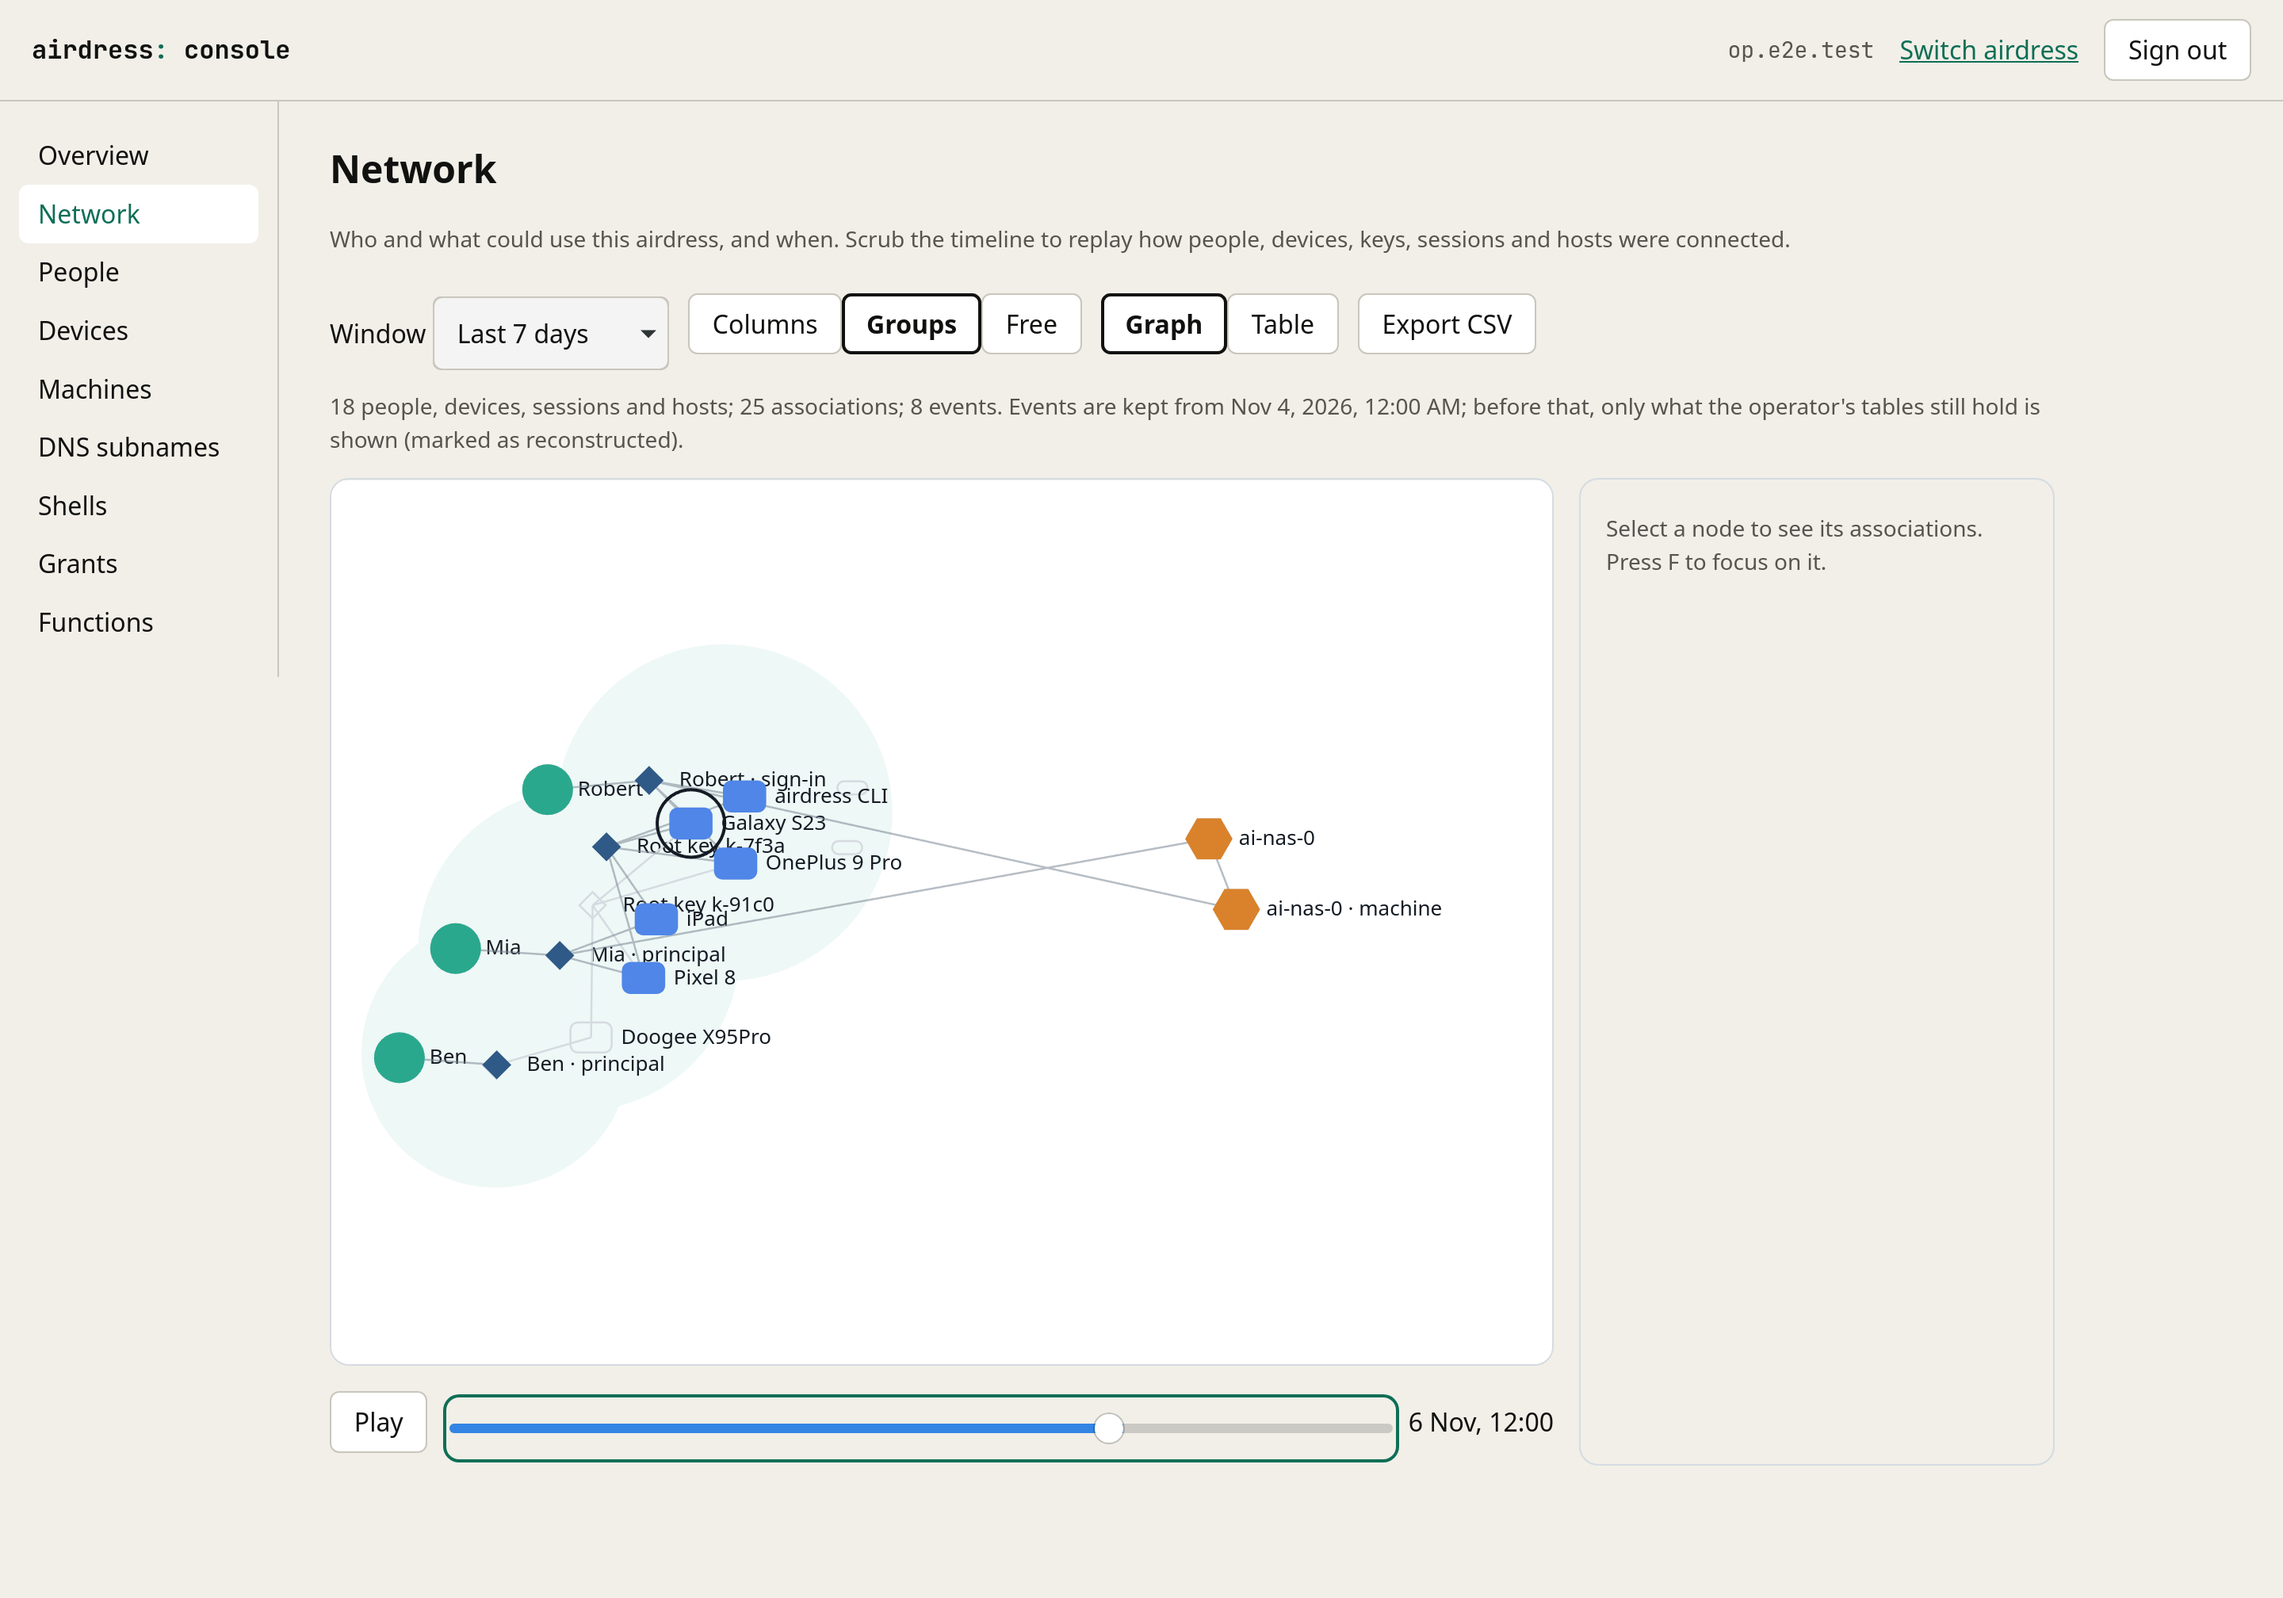
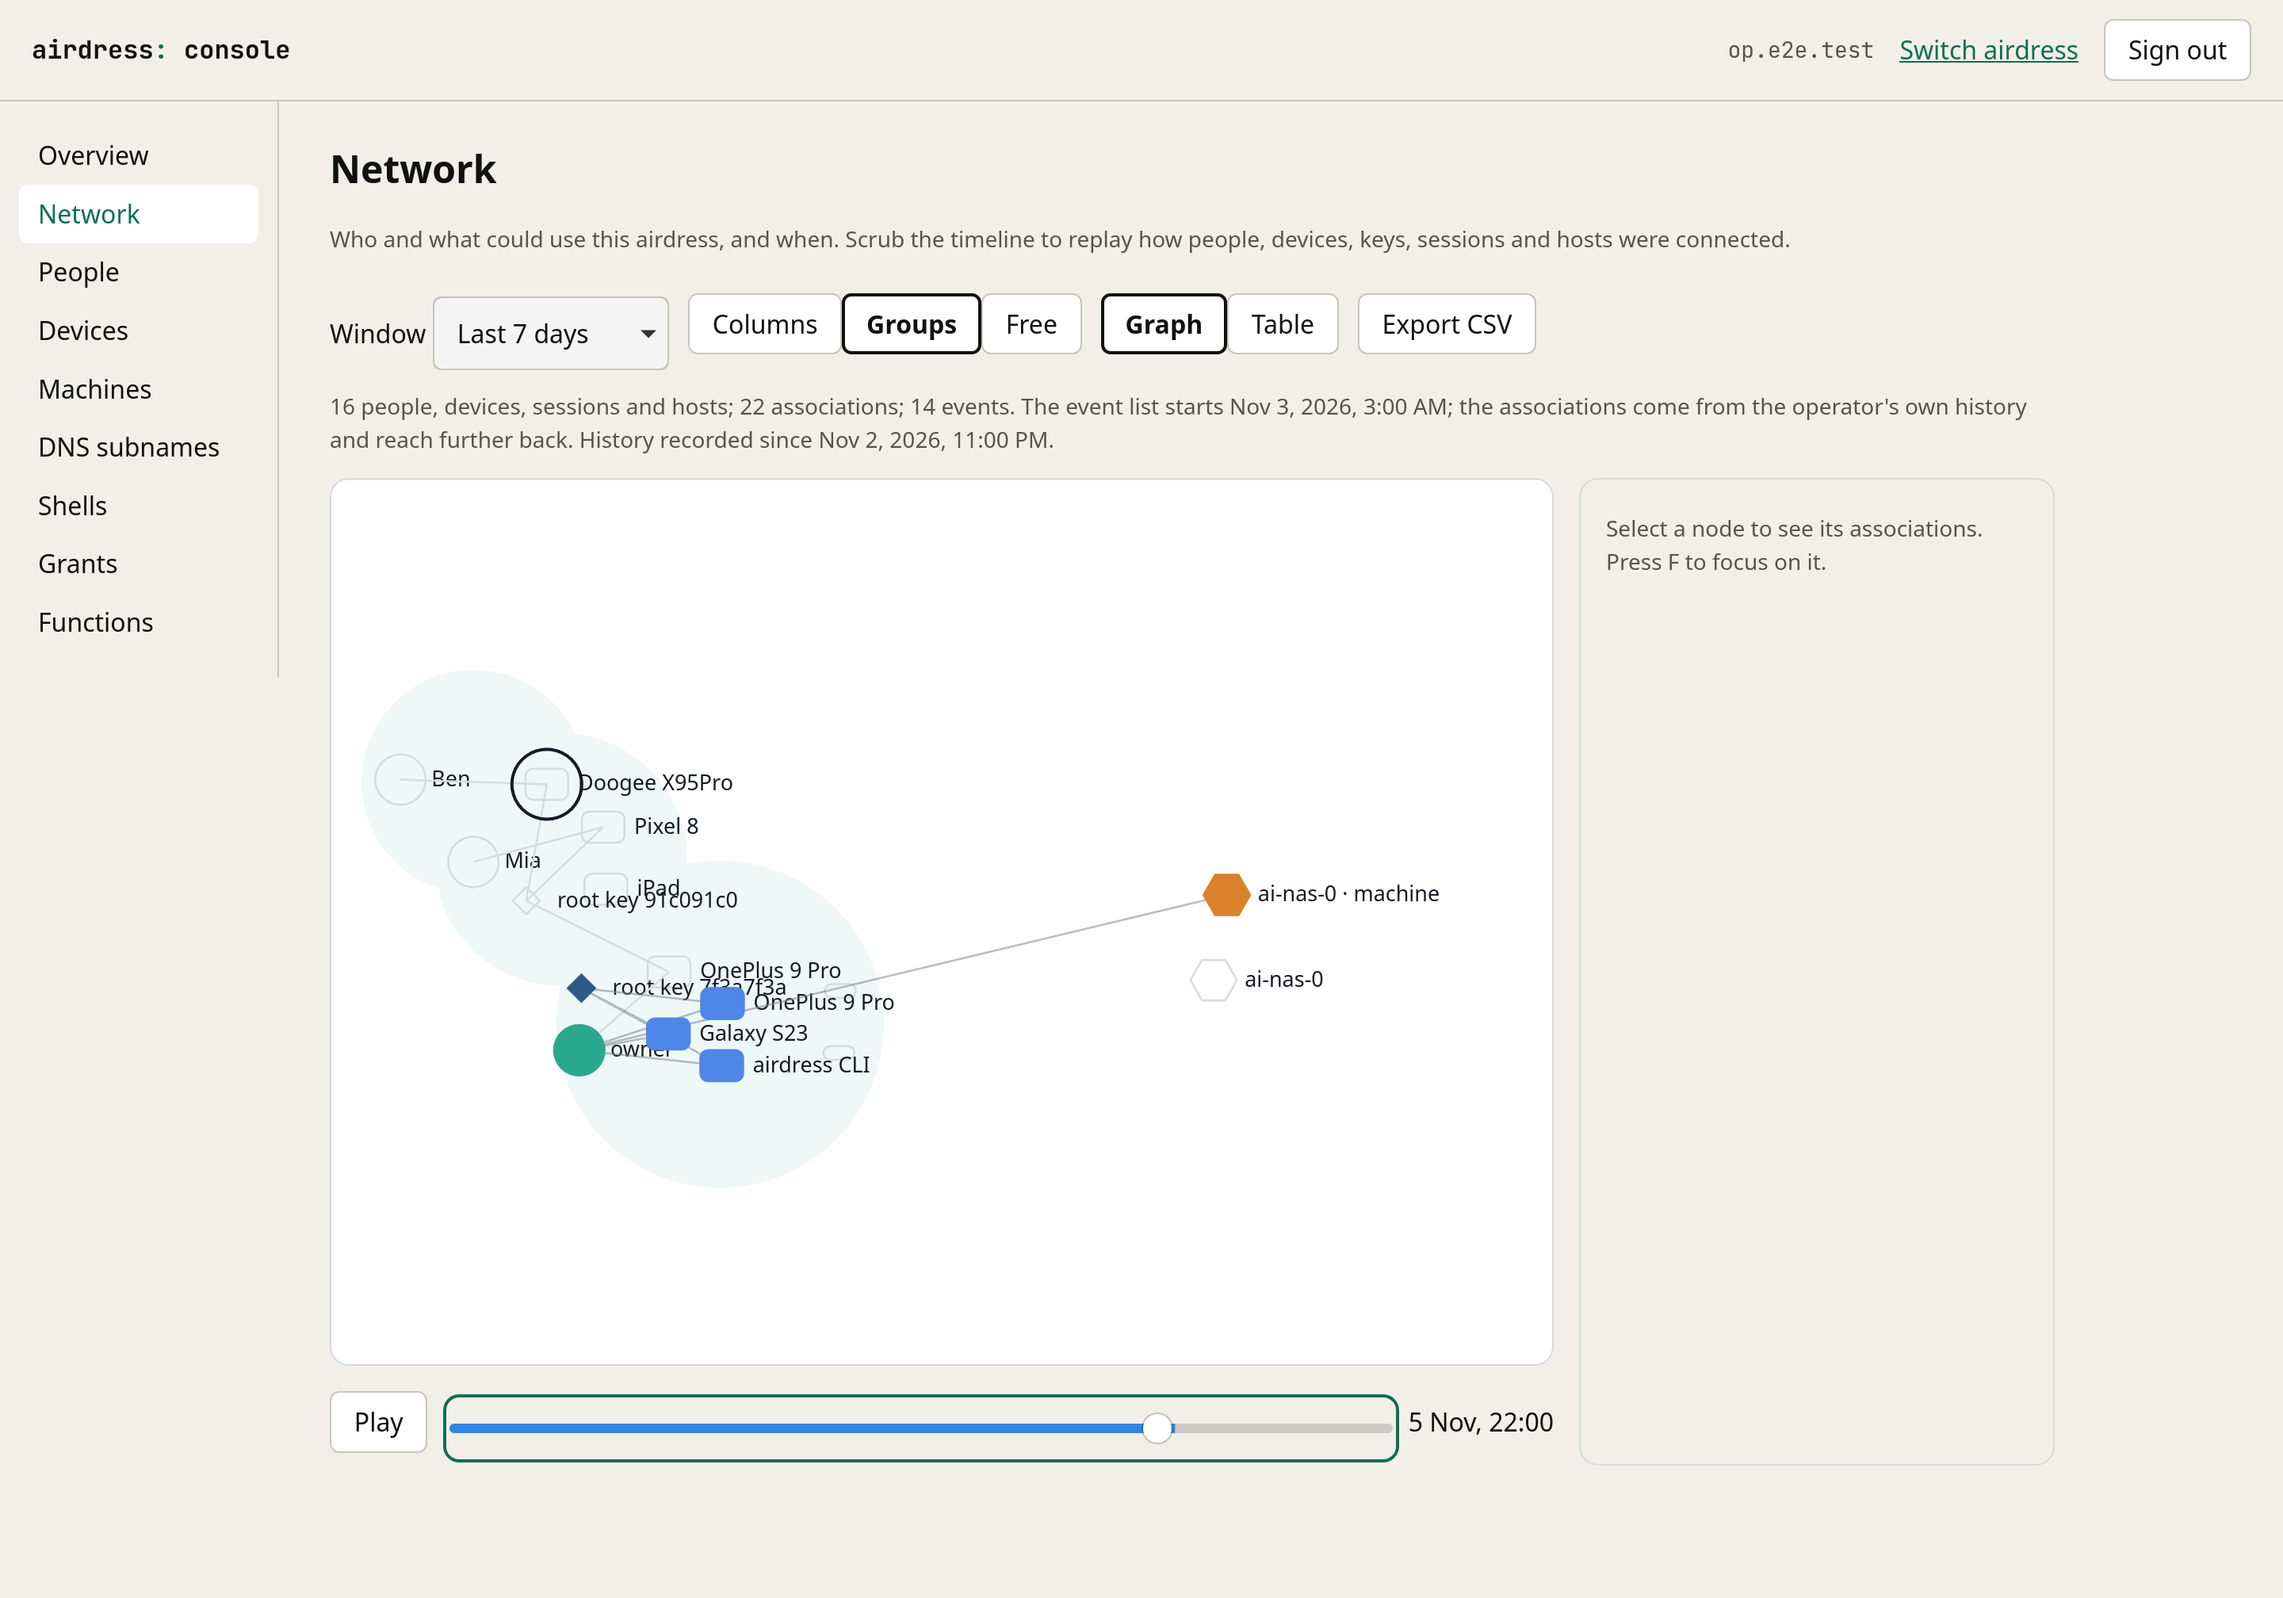
feat(network): the view reads the operator's recorded history
The proof of concept now runs on the operator's association store
(SPEC-189 phases B and C) instead of a read of its tables:

- the view's off state (403 not_enabled) with the owner's switch, which
  turns it on through PUT /v1/admin/network/settings (FR-46, 189-D.20
  without the step-up yet);
- "History recorded since …" from coverage.history_starts_at, and the
  coverage line no longer speaks of reconstructed rows;
- the e2e records the household's week instead of writing tables: two
  people added and one removed through the operator's own CLI (the real
  write paths), the week's device, root, machine, grant and shell events
  into the event log, then waits for the operator's projector to draw
  them. Seeded once for every browser project.

Needs an operator from airdress-operator feat/network-store
(AIRDRESS_OPERATOR_BIN) until a release carries the store.

diff --git a/e2e/network.spec.ts b/e2e/network.spec.ts
@@ -12,18 +12,60 @@ import { OPERATOR_FQDN } from './harness/env.ts';
 
 const SHOTS = 'spike/results';
 
-/** Seed the household straight into the e2e operator's embedded PostgreSQL. */
-function seed(): void {
+interface Pg {
+  readonly sockets: string;
+  readonly port: string;
+  readonly password: string;
+  readonly root: string;
+}
+
+function pg(): Pg {
   const root = process.env['E2E_OPERATOR_ROOT'];
   if (root === undefined) throw new Error('E2E_OPERATOR_ROOT is not set (harness/operator.ts)');
-  const pg = join(root, 'pg');
-  const sockets = join(pg, 'sockets');
+  const sockets = join(root, 'pg', 'sockets');
   const socket = readdirSync(sockets).find(
     (f) => f.startsWith('.s.PGSQL.') && !f.endsWith('.lock'),
   );
   if (socket === undefined) throw new Error(`no PostgreSQL socket in ${sockets}`);
-  const port = socket.slice('.s.PGSQL.'.length);
-  const password = readFileSync(join(pg, '.airdress_pg_password'), 'utf8').trim();
+  const password = readFileSync(join(root, 'pg', '.airdress_pg_password'), 'utf8').trim();
+  return { sockets, port: socket.slice('.s.PGSQL.'.length), password, root };
+}
+
+/** Run the operator's own CLI against the e2e operator; its stdout. */
+function operatorCli(args: string[]): string {
+  const binary = process.env['E2E_OPERATOR_BINARY'];
+  const root = process.env['E2E_OPERATOR_ROOT'];
+  if (binary === undefined || root === undefined) throw new Error('the e2e operator is not up');
+  return execFileSync(binary, ['--config', join(root, 'operator.toml'), ...args], {
+    encoding: 'utf8',
+    env: { ...process.env, AIRDRESS_PG_OFFLINE: '1' },
+  });
+}
+
+function idOf(out: string): string {
+  const id = /^id: ([0-9a-f-]{36})$/m.exec(out)?.[1];
+  if (id === undefined) throw new Error(`no id in: ${out}`);
+  return id;
+}
+
+/**
+ * The household's week, as the operator records it: two people added and
+ * one removed through the operator's own CLI (the real write paths, which
+ * record their events), then the week's device, root, machine, grant and
+ * shell events into the log. The view is drawn from what the operator's
+ * projector makes of all of it; no association table is written here.
+ */
+function seed(): void {
+  // One operator serves every browser project: the week is recorded once.
+  if (/\bMia\b/.test(operatorCli(['sub-users', 'list']))) return;
+  const mia = idOf(
+    operatorCli(['sub-users', 'create', '--display-name', 'Mia', '--without-account']),
+  );
+  const ben = idOf(
+    operatorCli(['sub-users', 'create', '--display-name', 'Ben', '--without-account']),
+  );
+  operatorCli(['sub-users', 'revoke', ben]);
+  const db = pg();
   execFileSync(
     'psql',
     [
@@ -31,17 +73,21 @@ function seed(): void {
       'ON_ERROR_STOP=1',
       '-q',
       '-h',
-      sockets,
+      db.sockets,
       '-p',
-      port,
+      db.port,
       '-U',
       'postgres',
       '-d',
       'airdress',
+      '-v',
+      `mia=${mia}`,
+      '-v',
+      `ben=${ben}`,
       '-f',
-      'e2e/network-seed.sql',
+      'e2e/network-events.sql',
     ],
-    { env: { ...process.env, PGPASSWORD: password }, stdio: 'pipe' },
+    { env: { ...process.env, PGPASSWORD: db.password }, stdio: 'pipe' },
   );
 }
 
@@ -62,8 +108,28 @@ test('the network area reads the operator and shows every arrangement', async ({
   await signIn(page);
   await page.getByRole('navigation').getByRole('link', { name: 'Network' }).click();
   await expect(page.getByRole('heading', { name: 'Network', level: 1 })).toBeVisible();
-  await expect(page.getByText('Loading…')).toHaveCount(0);
+
+  // Off by default (D-13): the history is kept, the view is not shown
+  // until the owner turns it on (FR-46).
+  // (One operator serves every browser project: a later one finds it on.)
+  const turnOn = page.getByRole('button', { name: 'Turn on the network view' });
+  await expect(page.getByText(/associations; \d+ events/).or(turnOn)).toBeVisible();
+  if (await turnOn.isVisible()) await turnOn.click();
   await expect(page.getByText(/associations; \d+ events/)).toBeVisible();
+
+  // The projector runs on its own clock: reopen until it has drawn the week.
+  const nav = page.getByRole('navigation');
+  await expect(async () => {
+    await nav.getByRole('link', { name: 'Overview' }).click();
+    await nav.getByRole('link', { name: 'Network' }).click();
+    await expect(page.getByRole('option', { name: /device iPad/ })).toHaveCount(1, {
+      timeout: 2_000,
+    });
+  }).toPass({ timeout: 45_000 });
+  for (const label of ['person Mia', 'person Ben', 'device Pixel 8', 'device Doogee X95Pro']) {
+    await expect(page.getByRole('option', { name: label })).toHaveCount(1);
+  }
+  await expect(page.getByText(/History recorded since/)).toBeVisible();
   await expect(page.getByRole('alert')).toHaveCount(0);
 
   // WCAG 2.2 A and AA, as every other area (184-D.14).
@@ -92,8 +158,9 @@ test('the network area reads the operator and shows every arrangement', async ({
   // Replay to the middle of the week, then the table as of that moment.
   const slider = page.getByRole('slider', { name: 'Time' });
   await slider.focus();
-  await page.keyboard.press('Home');
-  for (let i = 0; i < 4; i++) await page.keyboard.press('ArrowRight');
+  // Step to the last day: after the reset, with the NAS and its sessions.
+  await page.keyboard.press('End');
+  for (let i = 0; i < 3; i++) await page.keyboard.press('ArrowLeft');
   await page.screenshot({ path: `${SHOTS}/poc-replay.png`, fullPage: true });
   await page.getByRole('button', { name: 'Table', exact: true }).click();
   await expect(page.getByRole('table')).toBeVisible();

diff --git a/src/features/network/NetworkView.vue b/src/features/network/NetworkView.vue
@@ -8,7 +8,8 @@ import { useI18n } from 'vue-i18n';
 import AreaFrame from '@/components/AreaFrame.vue';
 import ErrorNotice from '@/components/ErrorNotice.vue';
 import NetworkCanvas from './NetworkCanvas.vue';
-import { useNetwork, windowOf } from './api.ts';
+import { HttpError } from '@/api/errors.ts';
+import { useNetwork, useNetworkSwitch, windowOf } from './api.ts';
 import type { WindowName } from './api.ts';
 import { layout, PRESETS } from './layout.ts';
 import type { Positions, Preset } from './layout.ts';
@@ -18,6 +19,11 @@ const windowName = ref<WindowName>('week');
 const openedAt = Date.now();
 const window = computed(() => windowOf(windowName.value, openedAt));
 const query = useNetwork(window);
+const toggle = useNetworkSwitch();
+/** The view is off (403 not_enabled): the owner turns it on here (FR-46). */
+const switchedOff = computed(
+  () => query.error.value instanceof HttpError && query.error.value.code === 'not_enabled',
+);
 const preset = ref<Preset>('groups');
 const view = ref<'graph' | 'table'>('graph');
 const canvas = useTemplateRef<InstanceType<typeof NetworkCanvas>>('canvas');
@@ -153,7 +159,14 @@ function focusSelected(): void {
       </button>
     </div>
 
-    <ErrorNotice v-if="query.error.value !== null" :error="query.error.value" />
+    <section v-if="switchedOff" class="off">
+      <p>{{ t('network.off') }}</p>
+      <button type="button" :disabled="toggle.isPending.value" @click="toggle.mutate(true)">
+        {{ t('network.turnOn') }}
+      </button>
+      <ErrorNotice v-if="toggle.error.value !== null" :error="toggle.error.value" />
+    </section>
+    <ErrorNotice v-else-if="query.error.value !== null" :error="query.error.value" />
     <p v-else-if="query.isPending.value">{{ t('common.loading') }}</p>
     <template v-else-if="network !== undefined && positions !== undefined">
       <p class="hint">
@@ -168,6 +181,9 @@ function focusSelected(): void {
           {{ t('network.coverage', { from: fmt(read.eventsFrom) }) }}
         </template>
         <template v-if="read?.eventsTruncated">{{ t('network.truncated') }}</template>
+        <template v-if="read?.historyStartsAt !== undefined">
+          {{ ' ' + t('network.since', { time: fmt(read.historyStartsAt) }) }}
+        </template>
       </p>
       <p v-if="network.nodes.length === 0">{{ t('network.empty') }}</p>
       <div v-else class="body" :class="{ hidden: view !== 'graph' }">

diff --git a/src/features/network/api.ts b/src/features/network/api.ts
@@ -1,6 +1,6 @@
 // The network view's read (SPEC-189, proof of concept): GET /v1/admin/network
 // for a window, checked where it enters and turned into the renderer's model.
-import { useQuery } from '@tanstack/vue-query';
+import { useMutation, useQuery, useQueryClient } from '@tanstack/vue-query';
 import { computed } from 'vue';
 import type { Ref } from 'vue';
 import type { Reader } from '@/api/guards.ts';
@@ -24,6 +24,8 @@ export interface NetworkRead {
   readonly detail: ReadonlyMap<string, string>;
   readonly eventsFrom: number | undefined;
   readonly eventsTruncated: boolean;
+  /** When the operator's recorded history begins: nothing earlier is known. */
+  readonly historyStartsAt: number | undefined;
 }
 
 function kindOf(r: Reader): Kind {
@@ -68,6 +70,7 @@ export function readNetwork(body: unknown): NetworkRead {
   })) as NetEvent[];
   const coverage = r.record('coverage');
   const eventsFrom = coverage.optString('events_from');
+  const historyStartsAt = coverage.optString('history_starts_at');
   return {
     network: {
       from: Date.parse(r.string('from')),
@@ -80,6 +83,7 @@ export function readNetwork(body: unknown): NetworkRead {
     detail,
     eventsFrom: eventsFrom === undefined ? undefined : Date.parse(eventsFrom),
     eventsTruncated: coverage.optBoolean('events_truncated') ?? false,
+    historyStartsAt: historyStartsAt === undefined ? undefined : Date.parse(historyStartsAt),
   };
 }
 
@@ -109,5 +113,18 @@ export function useNetwork(
       return readNetwork(await op.request(`${PATH}?${q.toString()}`));
     },
     enabled: computed(() => op.fqdn.value !== undefined),
+  });
+}
+
+const SETTINGS = '/v1/admin/network/settings';
+
+/** The owner turns the view on or off (SPEC-189 FR-46); the read refetches. */
+export function useNetworkSwitch(): ReturnType<typeof useMutation<unknown, Error, boolean>> {
+  const op = useOperator();
+  const client = useQueryClient();
+  return useMutation({
+    mutationFn: (enabled: boolean): Promise<unknown> =>
+      op.request(SETTINGS, { method: 'PUT', body: JSON.stringify({ enabled }) }),
+    onSettled: () => client.invalidateQueries({ queryKey: operatorKeys.all(op.fqdn.value ?? '') }),
   });
 }

diff --git a/e2e/global-setup.ts b/e2e/global-setup.ts
@@ -21,6 +21,8 @@ export default async function globalSetup(): Promise<() => Promise<void>> {
   const binary =
     process.env['AIRDRESS_OPERATOR_BIN'] ??
     execFileSync('sh', ['e2e/fetch-operator.sh'], { encoding: 'utf8' }).trim();
+  // The network suite drives the operator's own CLI against the same database.
+  process.env['E2E_OPERATOR_BINARY'] = binary;
   const as = await startFakeAs({
     port: AS_PORT,
     consoleOrigin: CONSOLE_ORIGIN,
